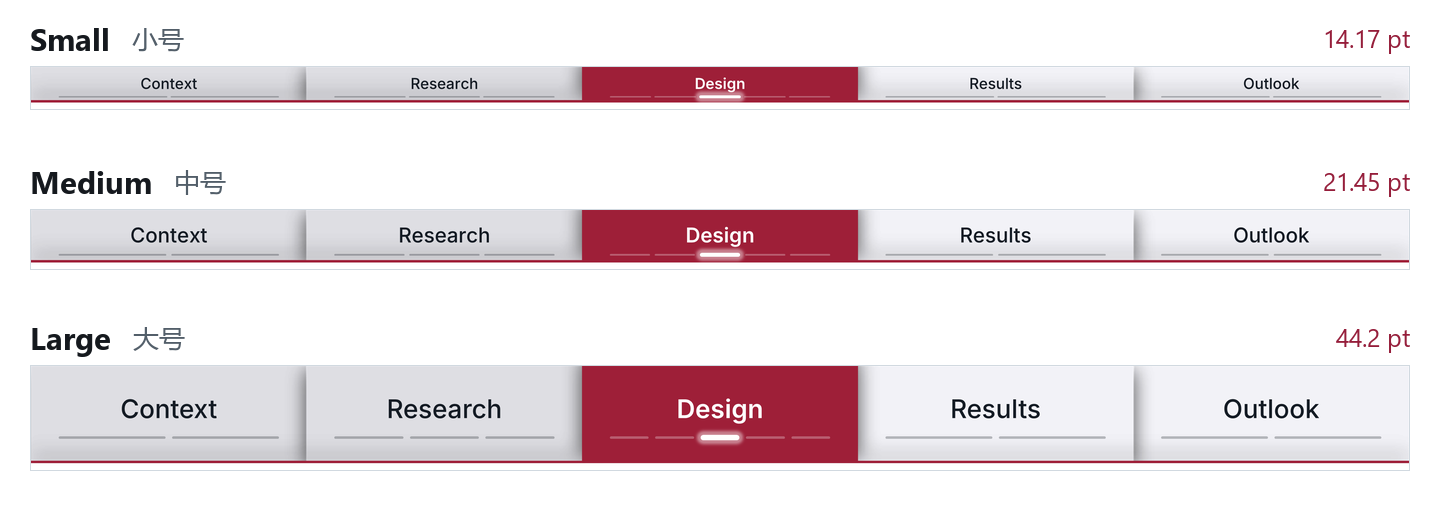
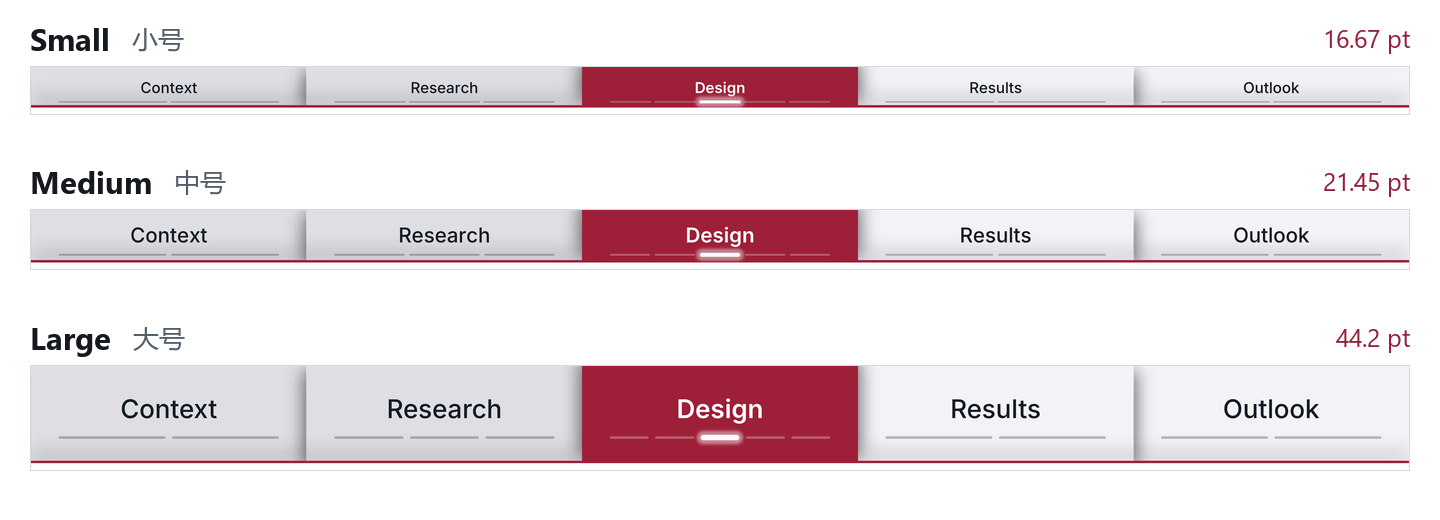
Increase title spacing in the small Crimson Layers preset

Changed region(s): [[0.0, 0.1538, 1.0, 0.2154], [0.9062, 0.0615, 0.9688, 0.0923]]

diff --git a/english_sources.py b/english_sources.py
@@ -44,7 +44,7 @@ def prepare_english(
             continue
         source = ENCODED_TEXT.sub(translate_vba, module.read_text("utf-8-sig"))
         if module.name == "mdlOptionsHandling.bas":
-            source = source.replace('" CN.11.9 32b/64b"', '" EN.11.9 32b/64b"')
+            source = source.replace('" CN.11.10 32b/64b"', '" EN.11.10 32b/64b"')
         if module.name == "basGeneral.bas":
             source = source.replace('family = "Microsoft YaHei"',
                                     'family = "Segoe UI"')
@@ -60,7 +60,7 @@ def prepare_english(
     xml.write(target / "customUI14.xml", encoding="UTF-8", xml_declaration=True)
 
     catalog = json.loads((project_dir / "styles.json").read_text("utf-8"))
-    catalog["version"] = "EN.11.9"
+    catalog["version"] = "EN.11.10"
     for style in catalog["styles"]:
         for field in ("name", "family", "description"):
             style[field] = ribbon_text[style[field]]

diff --git a/build_package.py b/build_package.py
@@ -314,7 +314,7 @@ def main():
 
         source_dir = prepare_english(source_dir, ROOT, args.output_dir / "en")
     version = args.version_token or (
-        "EN11_9" if args.language == "en" else "CN11_9"
+        "EN11_10" if args.language == "en" else "CN11_10"
     )
     base_dir = RESOURCE_ROOT / "original/ProgressIndicators_v1960_3264b"
     reports = []

diff --git a/README.md b/README.md
@@ -9,7 +9,7 @@
   <sub><a href="https://github.com/AdamWilsonLab/progress_indicators">Upstream GitHub repository (AdamWilsonLab/progress_indicators)</a> | <a href="https://datenbank-projekt.de/projekte/progress-indicator-powerpoint-2010-2013-2016-32-and-64-bit-windows-mac">Olaf Nöhring's project page</a></sub>
 </p>
 
-<p align="center"><sub>PowerPoint for Windows &nbsp;|&nbsp; EN.11.9 / CN.11.9</sub></p>
+<p align="center"><sub>PowerPoint for Windows &nbsp;|&nbsp; EN.11.10 / CN.11.10</sub></p>
 
 <img src="docs/assets/native/crimson-layers.webp" alt="Five section tabs span the slide. Design is red, and its third marker glows white." width="100%" />
 
@@ -38,8 +38,8 @@ Download the ZIP for the language you want on the PowerPoint ribbon. Both packag
 
 | Download | File to open in PowerPoint |
 | --- | --- |
-| <a href="https://github.com/GH-X-ST/PowerPoint-Progress-Indicators/releases/download/EN.11.9/ProgressIndicators-EN.11.9.zip"><picture><source media="(prefers-color-scheme: dark)" srcset="docs/assets/badges/en-dark.svg" /><source media="(prefers-color-scheme: light)" srcset="docs/assets/badges/en-light.svg" /><img src="docs/assets/badges/en-light.svg" alt="Download the English edition (ZIP)" width="164" /></picture></a> | `ProgressIndicators_v1960_3264b_SB_EN11_9.ppam` |
-| <a href="https://github.com/GH-X-ST/PowerPoint-Progress-Indicators/releases/download/CN.11.9/ProgressIndicators-CN.11.9.zip"><picture><source media="(prefers-color-scheme: dark)" srcset="docs/assets/badges/cn-dark.svg" /><source media="(prefers-color-scheme: light)" srcset="docs/assets/badges/cn-light.svg" /><img src="docs/assets/badges/cn-light.svg" alt="Download the Simplified Chinese edition (ZIP)" width="164" /></picture></a> | `ProgressIndicators_v1960_3264b_SB_CN11_9.ppam` |
+| <a href="https://github.com/GH-X-ST/PowerPoint-Progress-Indicators/releases/download/EN.11.10/ProgressIndicators-EN.11.10.zip"><picture><source media="(prefers-color-scheme: dark)" srcset="docs/assets/badges/en-dark.svg" /><source media="(prefers-color-scheme: light)" srcset="docs/assets/badges/en-light.svg" /><img src="docs/assets/badges/en-light.svg" alt="Download the English edition (ZIP)" width="172" /></picture></a> | `ProgressIndicators_v1960_3264b_SB_EN11_10.ppam` |
+| <a href="https://github.com/GH-X-ST/PowerPoint-Progress-Indicators/releases/download/CN.11.10/ProgressIndicators-CN.11.10.zip"><picture><source media="(prefers-color-scheme: dark)" srcset="docs/assets/badges/cn-dark.svg" /><source media="(prefers-color-scheme: light)" srcset="docs/assets/badges/cn-light.svg" /><img src="docs/assets/badges/cn-light.svg" alt="Download the Simplified Chinese edition (ZIP)" width="172" /></picture></a> | `ProgressIndicators_v1960_3264b_SB_CN11_10.ppam` |
 
 1. Extract the ZIP. In PowerPoint for Windows, open **File > Options > Add-ins**.
 2. At the bottom of the dialog, set **Manage** to **PowerPoint Add-ins** and click **Go**.
@@ -80,12 +80,12 @@ With **Equal Sections**, each of the five sections below gets a fifth of the bar
 
 ### Choose a size and marker shape
 
-Each preset comes in **Small**, **Medium**, and **Large**. With a top or bottom bar, Small uses 7 pt titles. Its panel is 13 pt high in most presets and about 14.17 pt in Crimson Layers. In the Design example below, the title starts 5 pt below the top edge, and the bottom of the g sits 1.5 pt above the solid part of the current marker. The markers are half the height of the Large markers. They fill the middle 90% of the section in most presets. Crimson Layers uses the middle 80% at every size. For a left or right bar, adjust the sidebar width separately.
+Each preset comes in **Small**, **Medium**, and **Large**. With a top or bottom bar, Small uses 7 pt titles. Its panel is 13 pt high in most presets and about 16.67 pt in Crimson Layers. In the Design example below, the title starts 7 pt below the top edge, and the bottom of the g sits 2 pt above the solid part of the current marker. The markers are half the height of the Large markers. They fill the middle 90% of the section in most presets. Crimson Layers uses the middle 80% at every size. For a left or right bar, adjust the sidebar width separately.
 
 <picture>
   <source media="(prefers-color-scheme: dark)" srcset="docs/assets/native/sizes-dark.webp" />
   <source media="(prefers-color-scheme: light)" srcset="docs/assets/native/sizes-light.webp" />
-  <img src="docs/assets/native/sizes-light.webp" alt="Crimson Layers in Small (14.17 pt), Medium (21.45 pt), and Large (44.2 pt). Design is the current section in all three." width="100%" />
+  <img src="docs/assets/native/sizes-light.webp" alt="Crimson Layers in Small (16.67 pt), Medium (21.45 pt), and Large (44.2 pt). Design is the current section in all three." width="100%" />
 </picture>
 
 <details>
@@ -481,12 +481,12 @@ uv pip install --python .venv\Scripts\python.exe -r requirements-build.txt
 .\.venv\Scripts\python.exe build_package.py --language en --output-dir rebuild --report rebuild/package-validation.json
 ```
 
-The build creates `rebuild/ProgressIndicators_v1960_3264b_SB_EN11_9.pptm`. The English VBA and Ribbon XML are in `rebuild/en/source/` and the translated preset catalog is in `rebuild/en/styles.json`.
+The build creates `rebuild/ProgressIndicators_v1960_3264b_SB_EN11_10.pptm`. The English VBA and Ribbon XML are in `rebuild/en/source/` and the translated preset catalog is in `rebuild/en/styles.json`.
 
 To package the `.ppam`, continue in the same PowerShell window. This step uses desktop PowerPoint and needs permission to run the presentation's macros. Choose a new output file.
 
 ```powershell
-$name = 'ProgressIndicators_v1960_3264b_SB_EN11_9'
+$name = 'ProgressIndicators_v1960_3264b_SB_EN11_10'
 $sourceDeck = (Resolve-Path "rebuild\$name.pptm").Path
 $releaseDir = Join-Path (Get-Location) 'rebuild\distribution'
 $ppam = Join-Path $releaseDir "$name.ppam"

diff --git a/README.zh-CN.md b/README.zh-CN.md
@@ -9,7 +9,7 @@
   <sub><a href="https://github.com/AdamWilsonLab/progress_indicators">上游 GitHub 仓库（AdamWilsonLab/progress_indicators）</a> · <a href="https://datenbank-projekt.de/projekte/progress-indicator-powerpoint-2010-2013-2016-32-and-64-bit-windows-mac">Olaf Nöhring 的项目页</a></sub>
 </p>
 
-<p align="center"><sub>Windows 桌面版 PowerPoint &nbsp;|&nbsp; CN.11.9 / EN.11.9</sub></p>
+<p align="center"><sub>Windows 桌面版 PowerPoint &nbsp;|&nbsp; CN.11.10 / EN.11.10</sub></p>
 
 <img src="docs/assets/native/crimson-layers.webp" alt="深红层叠进度条：当前在 Design 章的第 3 页，章名下方的第三个页标发亮。" width="100%" />
 
@@ -42,8 +42,8 @@
 
 | 下载 | 解压后在 PowerPoint 中选择 |
 | --- | --- |
-| <a href="https://github.com/GH-X-ST/PowerPoint-Progress-Indicators/releases/download/CN.11.9/ProgressIndicators-CN.11.9.zip"><picture><source media="(prefers-color-scheme: dark)" srcset="docs/assets/badges/cn-dark.svg" /><source media="(prefers-color-scheme: light)" srcset="docs/assets/badges/cn-light.svg" /><img src="docs/assets/badges/cn-light.svg" alt="下载 CN.11.9 压缩包" width="164" /></picture></a> | `ProgressIndicators_v1960_3264b_SB_CN11_9.ppam` |
-| <a href="https://github.com/GH-X-ST/PowerPoint-Progress-Indicators/releases/download/EN.11.9/ProgressIndicators-EN.11.9.zip"><picture><source media="(prefers-color-scheme: dark)" srcset="docs/assets/badges/en-dark.svg" /><source media="(prefers-color-scheme: light)" srcset="docs/assets/badges/en-light.svg" /><img src="docs/assets/badges/en-light.svg" alt="下载 EN.11.9 压缩包" width="164" /></picture></a> | `ProgressIndicators_v1960_3264b_SB_EN11_9.ppam` |
+| <a href="https://github.com/GH-X-ST/PowerPoint-Progress-Indicators/releases/download/CN.11.10/ProgressIndicators-CN.11.10.zip"><picture><source media="(prefers-color-scheme: dark)" srcset="docs/assets/badges/cn-dark.svg" /><source media="(prefers-color-scheme: light)" srcset="docs/assets/badges/cn-light.svg" /><img src="docs/assets/badges/cn-light.svg" alt="下载 CN.11.10 压缩包" width="172" /></picture></a> | `ProgressIndicators_v1960_3264b_SB_CN11_10.ppam` |
+| <a href="https://github.com/GH-X-ST/PowerPoint-Progress-Indicators/releases/download/EN.11.10/ProgressIndicators-EN.11.10.zip"><picture><source media="(prefers-color-scheme: dark)" srcset="docs/assets/badges/en-dark.svg" /><source media="(prefers-color-scheme: light)" srcset="docs/assets/badges/en-light.svg" /><img src="docs/assets/badges/en-light.svg" alt="下载 EN.11.10 压缩包" width="172" /></picture></a> | `ProgressIndicators_v1960_3264b_SB_EN11_10.ppam` |
 
 1. 在 Windows 桌面版 PowerPoint 中打开 **文件 > 选项 > 加载项**。
 2. 在窗口底部的 **管理** 列表中选择 **PowerPoint 加载项**，点击 **转到**。如果列表里已启用旧版或另一种语言的版本，先取消勾选。
@@ -92,12 +92,12 @@
 
 ### 大、中、小号
 
-在预设名称下选择尺寸。以 **深红层叠** 为例，放在页面顶部或底部时，小号高约 14.17 pt，中号高 21.45 pt，大号高 44.2 pt。下图小号的 `Design` 距章体顶部 5 pt，字母 `g` 的下缘距当前页标的实心部分 1.5 pt。所有预设的小号都用 7 pt 的章名，页标厚度是同款大号的一半。大多数预设的小号页标两端各留 5% 的章宽，深红层叠的三种尺寸都各留 10%。
+在预设名称下选择尺寸。以 **深红层叠** 为例，放在页面顶部或底部时，小号高约 16.67 pt，中号高 21.45 pt，大号高 44.2 pt。下图小号的 `Design` 距章体顶部 7 pt，字母 `g` 的下缘距当前页标的实心部分 2 pt。所有预设的小号都用 7 pt 的章名，页标厚度是同款大号的一半。大多数预设的小号页标两端各留 5% 的章宽，深红层叠的三种尺寸都各留 10%。
 
 <picture>
   <source media="(prefers-color-scheme: dark)" srcset="docs/assets/native/sizes-dark.webp" />
   <source media="(prefers-color-scheme: light)" srcset="docs/assets/native/sizes-light.webp" />
-  <img src="docs/assets/native/sizes-light.webp" alt="深红层叠横向放置。小号高 14.17 pt，中号高 21.45 pt，大号高 44.2 pt。" width="100%" />
+  <img src="docs/assets/native/sizes-light.webp" alt="深红层叠横向放置。小号高 16.67 pt，中号高 21.45 pt，大号高 44.2 pt。" width="100%" />
 </picture>
 
 <details>
@@ -501,10 +501,10 @@ VBA 模块、窗体和功能区 XML 在 `source/` 中。修改预设参数时，
 ```powershell
 uv venv --python 3.12 .venv
 uv pip install --python .venv\Scripts\python.exe -r requirements-build.txt
-.\.venv\Scripts\python.exe build_package.py --output-dir rebuild --version-token CN11_9 --report rebuild\package-validation.json
+.\.venv\Scripts\python.exe build_package.py --output-dir rebuild --version-token CN11_10 --report rebuild\package-validation.json
 ```
 
-输出文件是 `rebuild/ProgressIndicators_v1960_3264b_SB_CN11_9.pptm`。要得到可安装的 `.ppam`，用发布脚本调用 Windows 桌面版 PowerPoint 另存这份文稿。[中文版构建与发布说明](BUILD_zh-CN.txt)
+输出文件是 `rebuild/ProgressIndicators_v1960_3264b_SB_CN11_10.pptm`。要得到可安装的 `.ppam`，用发布脚本调用 Windows 桌面版 PowerPoint 另存这份文稿。[中文版构建与发布说明](BUILD_zh-CN.txt)
 
 <a id="license"></a>
 <a id="许可证与署名"></a>

diff --git a/THIRD_PARTY_NOTICES.en.md b/THIRD_PARTY_NOTICES.en.md
@@ -6,6 +6,6 @@ This project is based on Progress Indicator 1.960. Its MIT License preserves the
 
 ## FatCow Farm-Fresh Web Icons
 
-Copyright (C) 2009-2014 FatCow Web Hosting. The upstream author credits FatCow for most of the Ribbon icons. EN.11.9 includes the icons embedded in the upstream PowerPoint templates. FatCow's Farm-Fresh Web Icons use the **Creative Commons Attribution 3.0 United States (CC BY 3.0 US)** license. [FatCow icon page](http://www.fatcow.com/free-icons) | [CC BY 3.0 US legal code](https://creativecommons.org/licenses/by/3.0/us/legalcode)
+Copyright (C) 2009-2014 FatCow Web Hosting. The upstream author credits FatCow for most of the Ribbon icons. EN.11.10 includes the icons embedded in the upstream PowerPoint templates. FatCow's Farm-Fresh Web Icons use the **Creative Commons Attribution 3.0 United States (CC BY 3.0 US)** license. [FatCow icon page](http://www.fatcow.com/free-icons) | [CC BY 3.0 US legal code](https://creativecommons.org/licenses/by/3.0/us/legalcode)
 
 FatCow's original terms describe use in personal and commercial software, websites, and templates and request a link to the icon source in the software or website credits. They also list restrictions on reselling, sublicensing, renting, transferring, or otherwise making the icons available for others to use. [Archived FatCow terms of use](https://web.archive.org/web/20190416064342/https://www.fatcow.com/free-icons) | [Mirror of the notice distributed with the icon set](https://raw.githubusercontent.com/gammasoft/fatcow/master/readme-fatcow.txt)

diff --git a/THIRD_PARTY_NOTICES.md b/THIRD_PARTY_NOTICES.md
@@ -6,6 +6,6 @@
 
 ## FatCow Farm-Fresh Web Icons
 
-© 2009–2014 FatCow Web Hosting. 上游作者说明，功能区的大部分图标取自 FatCow。CN.11.9 沿用了上游模板中嵌入的图标。FatCow 的 Farm-Fresh Web Icons 使用 **Creative Commons Attribution 3.0 United States (CC BY 3.0 US)** 许可。[FatCow 图标原页](http://www.fatcow.com/free-icons) · [许可全文](https://creativecommons.org/licenses/by/3.0/us/legalcode)
+© 2009–2014 FatCow Web Hosting. 上游作者说明，功能区的大部分图标取自 FatCow。CN.11.10 沿用了上游模板中嵌入的图标。FatCow 的 Farm-Fresh Web Icons 使用 **Creative Commons Attribution 3.0 United States (CC BY 3.0 US)** 许可。[FatCow 图标原页](http://www.fatcow.com/free-icons) · [许可全文](https://creativecommons.org/licenses/by/3.0/us/legalcode)
 
 FatCow 原网页说明，图标可用于个人及商业软件、网站和模板，并要求在软件或网站的致谢处链接图标来源。同一页还列明不得转售、再许可、出租、转让图标，或以其他方式提供图标供人使用。[FatCow 官网存档中的 Terms of Use](https://web.archive.org/web/20190416064342/https://www.fatcow.com/free-icons) · [图标包随附说明的镜像](https://raw.githubusercontent.com/gammasoft/fatcow/master/readme-fatcow.txt)
